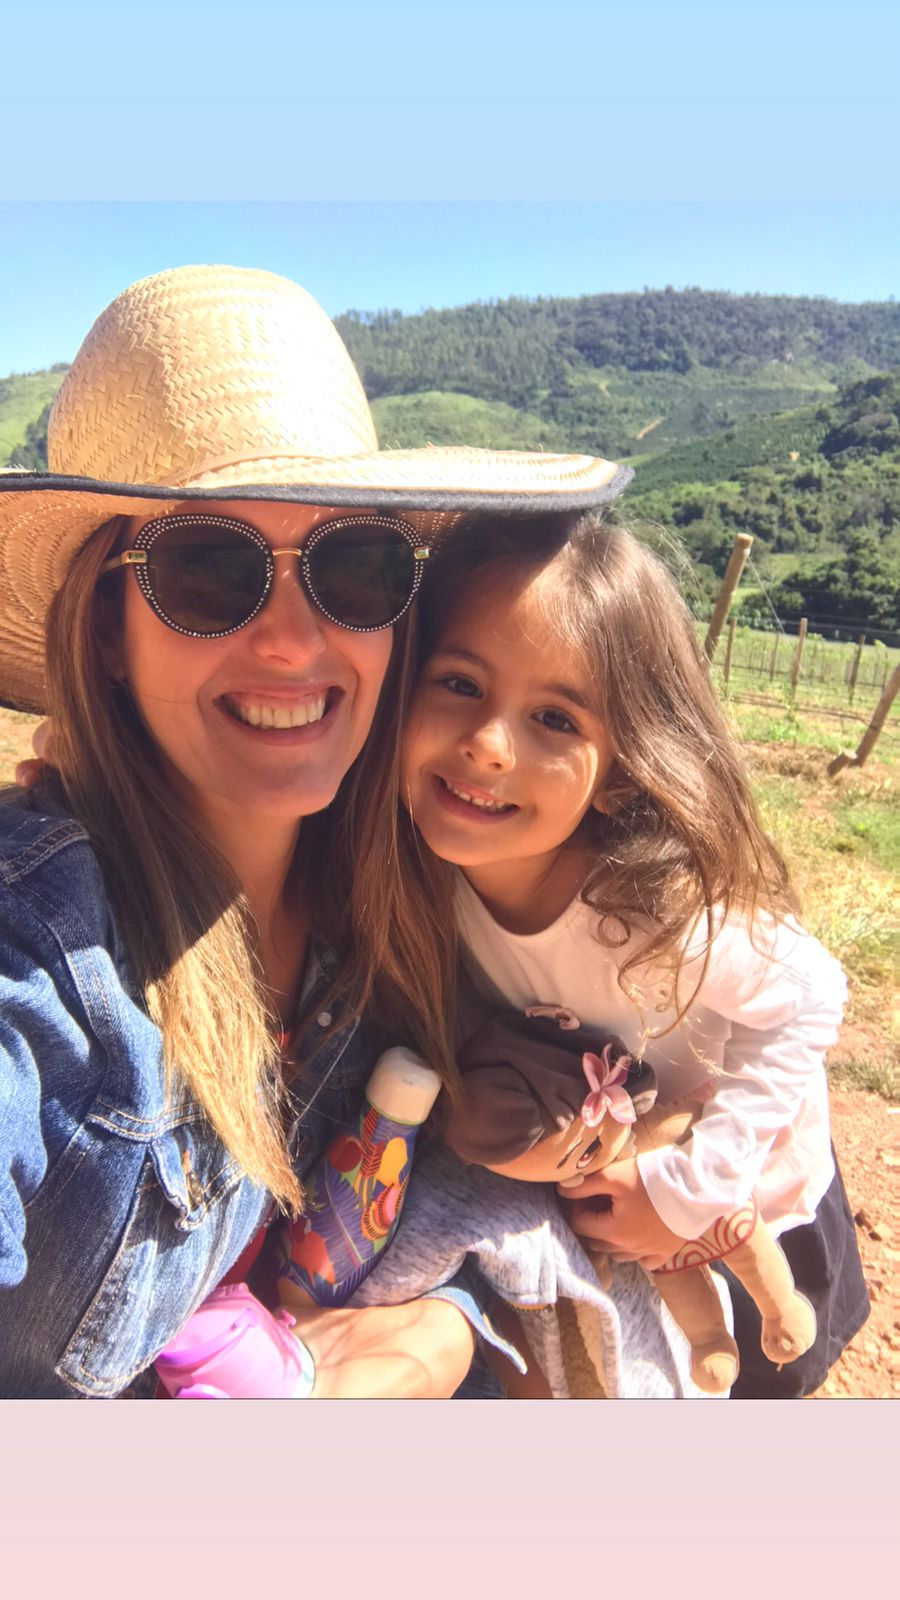
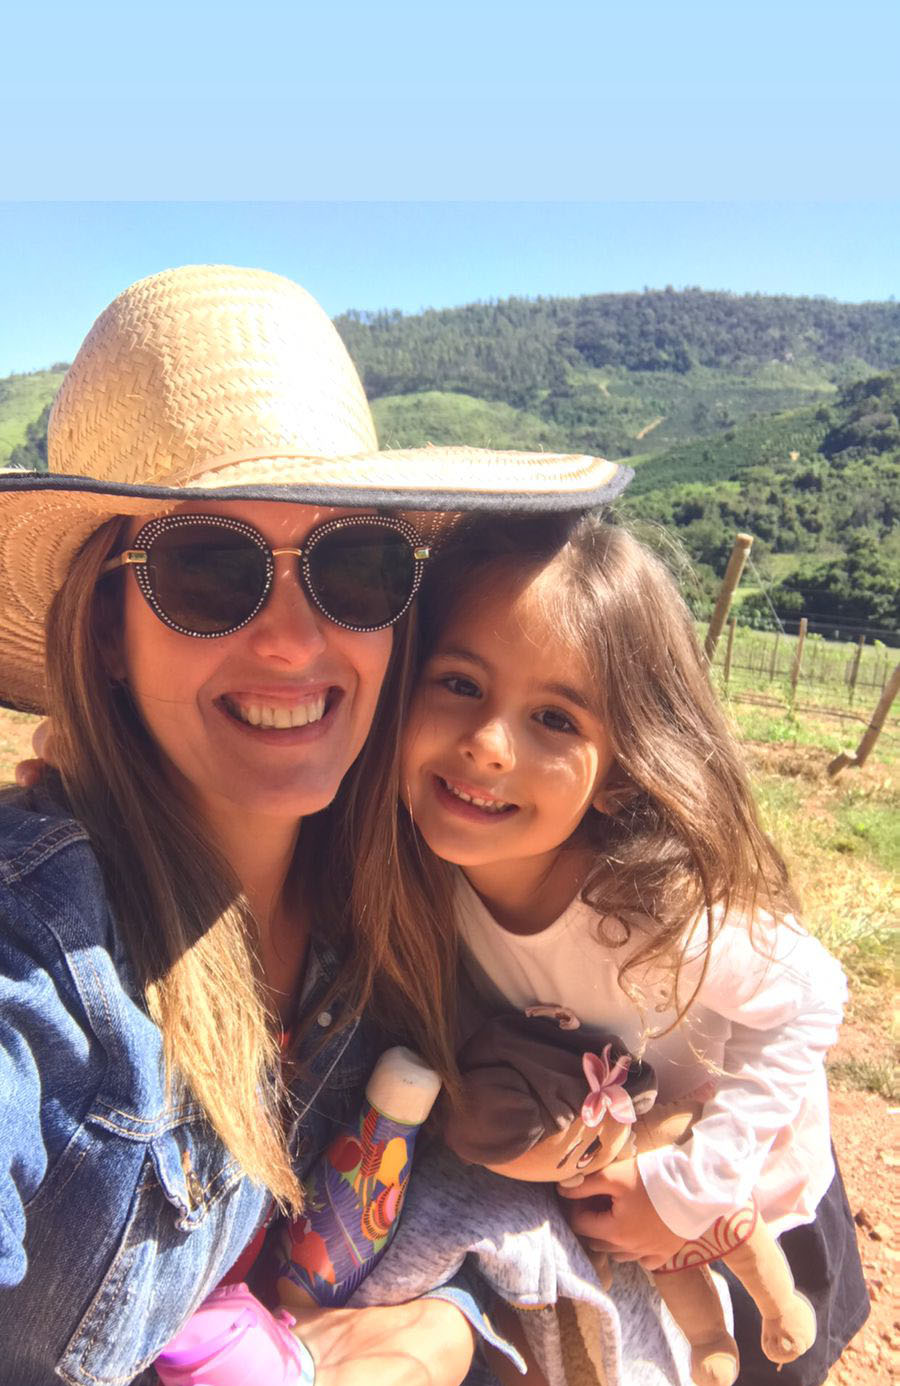
cropping images

diff --git a/src/components/MothersDaySlider/MothersDaySlider.tsx b/src/components/MothersDaySlider/MothersDaySlider.tsx
@@ -2,8 +2,6 @@
 import { Box, Heading, Image } from '@chakra-ui/react'
 import SlickSlider from 'react-slick'
 
-import { Slider } from '../Slider'
-
 const mothers = {
   ALINE: {
     title: 'Aline e Bia',
@@ -16,7 +14,7 @@ const mothers = {
     title: 'Carola e Gatinhos',
     image: {
       source: '/mothersday/Carola.jpeg',
-      alt: 'Carola e Gatinhos',
+      alt: 'Carola e seus gatos',
     },
   },
   LUANA: {
